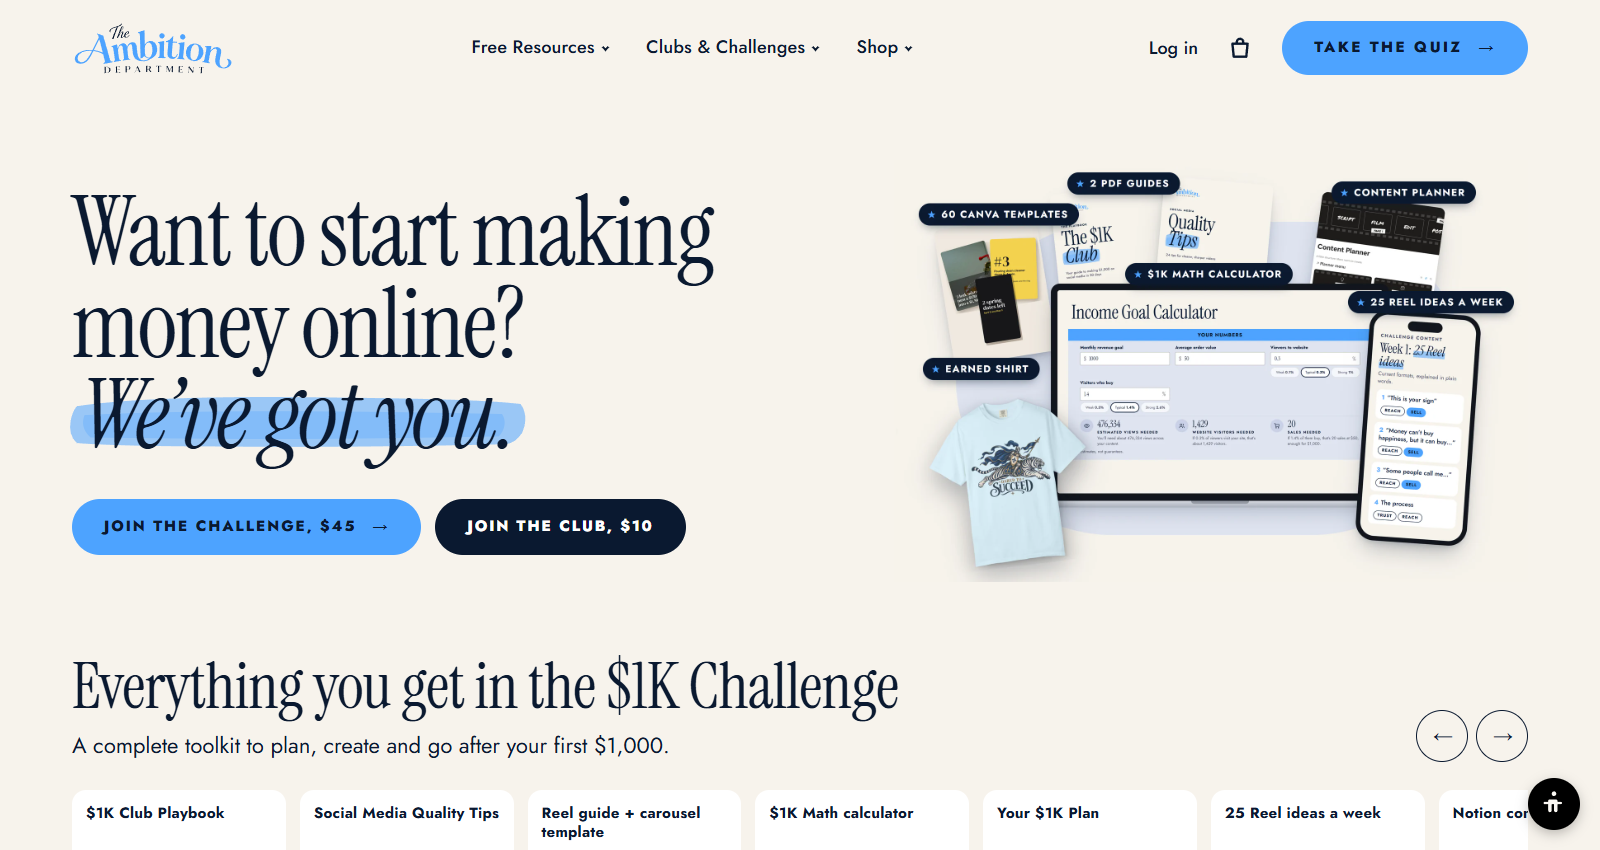
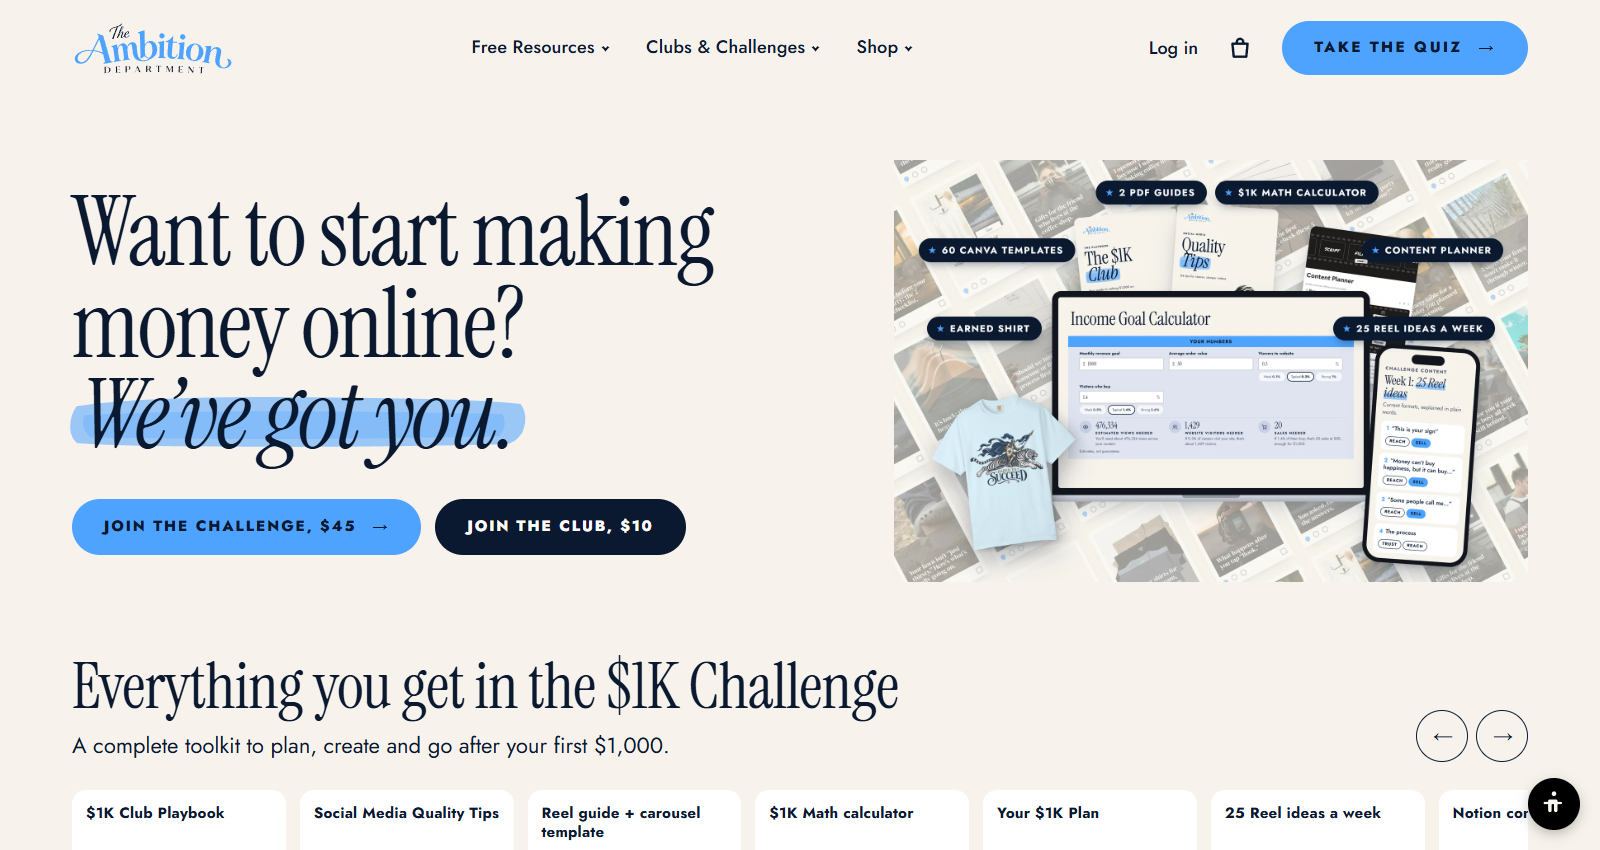
1K hero v3 round 2: tilted Instagram-post background from the 30 Challenge carousel templates, callouts in a mirrored arc off the product titles; not live

Changed region(s): [[0.5312, 0.1835, 0.9688, 0.7035]]

diff --git a/website/scrolly-site/mockups/k1-hero-v3/hero.html b/website/scrolly-site/mockups/k1-hero-v3/hero.html
@@ -1,56 +1,65 @@
 <!doctype html>
 <!-- $1K Club hero image, v3 (2026-10-31). Replaces k1-hero-fan.webp (2026-10-15, old orange look, graphite shirt).
-     Render: node render.mjs  ->  ../../assets/k1-hero-v3.webp (1536 x 1024). Screen crop: node capture.mjs -->
+     Background: a tilted wall of Instagram posts made from the Challenge's 30 carousel templates (bg/, copied from
+     automation/k1-launch/content/library/dist/carousels/*/previews/example-01.png), washed in off-white.
+     Callouts sit in a mirrored arc. Render: node render.mjs -> ../../assets/k1-hero-v3.webp. Screen crop: node capture.mjs -->
 <html><head><meta charset="utf-8">
 <link href="https://fonts.googleapis.com/css2?family=Instrument+Serif:ital@0;1&family=Jost:wght@400;500;700;800&display=swap" rel="stylesheet">
 <style>
-:root{--cream:#f7f3ec;--ink:#0a1930;--sky:#4da3ff;--mist:#dfe4f0;--muted:#4a4e66;--line:#d9d3ca}
+:root{--cream:#f7f3ec;--ink:#0a1930;--sky:#4da3ff;--mist:#dfe4f0;--muted:#4a4e66}
 *{box-sizing:border-box;margin:0;padding:0}
 body{width:1536px;height:1024px;background:var(--cream);font-family:Jost,Arial,sans-serif;color:var(--ink);overflow:hidden;position:relative}
 .abs{position:absolute}
 .shadow{box-shadow:0 30px 60px -20px rgba(10,25,48,.35),0 8px 18px -8px rgba(10,25,48,.25)}
-/* soft blue-mist ground behind the devices */
-.ground{left:150px;top:150px;width:1240px;height:760px;border-radius:380px;background:var(--mist)}
+/* background wall of posts */
+.wall{left:-560px;top:-820px;width:2700px;display:grid;grid-template-columns:repeat(12,196px);gap:28px;transform:rotate(-28deg);transform-origin:center}
+.post{background:#fff;padding:10px 10px 0;border-radius:4px;box-shadow:0 10px 24px -14px rgba(10,25,48,.4)}
+.post img{display:block;width:100%;aspect-ratio:3/4;object-fit:cover}
+.post .ic{display:flex;gap:10px;align-items:center;height:34px;padding:0 2px}
+.post .ic i{width:15px;height:15px;border:2px solid #9aa0ad;border-radius:50%}
+.post .ic i.h{border-color:var(--sky);background:var(--sky);border-radius:50% 50% 50% 0;transform:rotate(-45deg);width:12px;height:12px}
+.post .ic i.b{margin-left:auto;border-radius:2px}
+.wash{inset:0;background:rgba(247,243,236,.62)}
 .card{border-radius:14px;overflow:hidden;background:#fff}
 .card img{display:block;width:100%;height:auto}
 /* laptop: 16:10 screen on a thin base */
-.lap{left:380px;top:300px;width:820px}
-.lap .lid{background:#11151c;border-radius:22px 22px 0 0;padding:16px 16px 18px}
-.lap .scr{aspect-ratio:16/10;background:var(--cream);border-radius:6px;overflow:hidden;padding:26px 26px 0}
-.lap .scr h4{font:400 46px/1 'Instrument Serif',serif;letter-spacing:-.01em;margin:4px 0 18px 8px}
+.lap{left:383px;top:318px;width:770px}
+.lap .lid{background:#11151c;border-radius:22px 22px 0 0;padding:15px 15px 17px}
+.lap .scr{aspect-ratio:16/10;background:var(--cream);border-radius:6px;overflow:hidden;padding:24px 24px 0}
+.lap .scr h4{font:400 44px/1 'Instrument Serif',serif;letter-spacing:-.01em;margin:6px 0 20px 6px}
 .lap .scr img{width:100%;display:block}
-.lap .base{height:16px;margin:0 -46px;background:linear-gradient(#d6d9e0,#aab0bb);border-radius:0 0 18px 18px;position:relative}
+.lap .base{height:16px;margin:0 -44px;background:linear-gradient(#d6d9e0,#aab0bb);border-radius:0 0 18px 18px;position:relative}
 .lap .base:after{content:"";position:absolute;left:50%;top:0;width:140px;height:7px;margin-left:-70px;background:#9298a4;border-radius:0 0 8px 8px}
 /* phone: real proportions */
-.phone{left:1135px;top:370px;width:270px;height:560px;background:#11151c;border-radius:44px;padding:11px;transform:rotate(4deg)}
-.phone .in{width:100%;height:100%;background:var(--cream);border-radius:34px;overflow:hidden;padding:46px 18px 0;position:relative}
-.phone .in:before{content:"";position:absolute;top:12px;left:50%;width:84px;height:24px;margin-left:-42px;background:#11151c;border-radius:14px}
+.phone{left:1150px;top:452px;width:255px;height:530px;background:#11151c;border-radius:42px;padding:10px;transform:rotate(4deg)}
+.phone .in{width:100%;height:100%;background:var(--cream);border-radius:33px;overflow:hidden;padding:44px 16px 0;position:relative}
+.phone .in:before{content:"";position:absolute;top:12px;left:50%;width:80px;height:23px;margin-left:-40px;background:#11151c;border-radius:14px}
 .phone .lab{font:700 11px/1 Jost;letter-spacing:.14em;text-transform:uppercase;color:var(--muted)}
-.phone h5{font:400 32px/1 'Instrument Serif',serif;margin:8px 0 6px}
+.phone h5{font:400 30px/1 'Instrument Serif',serif;margin:8px 0 6px}
 .phone h5 em{background:linear-gradient(transparent 55%,rgba(77,163,255,.55) 55%,rgba(77,163,255,.55) 92%,transparent 92%)}
 .phone p.l{font:400 13px/1.35 Jost;color:var(--muted);margin-bottom:12px}
 .idea{background:#fff;border-radius:12px;padding:10px 12px;margin-bottom:8px}
-.idea b{display:block;font:500 15px/1.25 Jost;margin-bottom:7px}
+.idea b{display:block;font:500 14px/1.25 Jost;margin-bottom:7px}
 .idea b i{font-style:normal;color:var(--sky);font-weight:700;margin-right:6px}
 .tag{display:inline-block;font:700 10px/1 Jost;letter-spacing:.1em;padding:5px 9px;border-radius:20px;border:1.5px solid var(--ink);margin-right:4px}
 .tag.s{background:var(--sky);border-color:var(--sky)}
-/* callouts: navy pill, sky star */
-.pill{background:var(--ink);color:#fff;border-radius:40px;padding:15px 26px 15px 22px;font:700 24px/1 Jost;letter-spacing:.09em;text-transform:uppercase;white-space:nowrap;display:flex;align-items:center;gap:12px;box-shadow:0 12px 24px -10px rgba(10,25,48,.5)}
-.pill:before{content:"★";color:var(--sky);font-size:22px}
+/* callouts: navy pill, sky star, one size, mirrored arc */
+.pill{background:var(--ink);color:#fff;border-radius:40px;height:58px;padding:0 28px 0 24px;font:700 23px/1 Jost;letter-spacing:.09em;text-transform:uppercase;white-space:nowrap;display:flex;align-items:center;gap:12px;box-shadow:0 12px 24px -10px rgba(10,25,48,.5)}
+.pill:before{content:"★";color:var(--sky);font-size:21px}
 </style></head><body>
-<div class="abs ground"></div>
+<div class="abs wall" id="wall"></div>
+<div class="abs wash"></div>
 
-<!-- back row: guides, templates, planner -->
-<div class="abs card shadow" style="left:120px;top:150px;width:250px;transform:rotate(-9deg)"><img src="../../assets/k1-tile-canva-templates.webp"></div>
-<div class="abs card shadow" style="left:395px;top:70px;width:270px;transform:rotate(-6deg)"><img src="../../assets/k1-cover-playbook-v3.webp"></div>
-<div class="abs card shadow" style="left:640px;top:50px;width:265px;transform:rotate(5deg)"><img src="../../assets/k1-cover-quality-tips-v3.webp"></div>
-<div class="abs card shadow" style="left:1010px;top:95px;width:300px;transform:rotate(8deg)"><img src="../../assets/k1-tile3-notion-onset.webp"></div>
+<!-- back row: the two guides, the content planner -->
+<div class="abs card shadow" style="left:452px;top:128px;width:250px;transform:rotate(-6deg)"><img src="../../assets/k1-cover-playbook-v3.webp"></div>
+<div class="abs card shadow" style="left:676px;top:112px;width:245px;transform:rotate(4deg)"><img src="../../assets/k1-cover-quality-tips-v3.webp"></div>
+<div class="abs card shadow" style="left:985px;top:176px;width:270px;transform:rotate(8deg)"><img src="../../assets/k1-tile3-notion-onset.webp"></div>
 
 <!-- laptop with the live $1K Math calculator -->
 <div class="abs lap"><div class="lid shadow"><div class="scr"><h4>Income Goal Calculator</h4><img src="calc-panel.png"></div></div><div class="base shadow"></div></div>
 
 <!-- earned shirt -->
-<img class="abs" src="../../assets/shirt-1k-dared-front-cut.webp" style="left:20px;top:520px;width:520px;transform:rotate(-7deg);filter:drop-shadow(0 26px 30px rgba(10,25,48,.3))">
+<img class="abs" src="../../assets/shirt-1k-dared-front-cut.webp" style="left:30px;top:515px;width:480px;transform:rotate(-7deg);filter:drop-shadow(0 26px 30px rgba(10,25,48,.3))">
 
 <!-- phone: weekly Reel ideas -->
 <div class="abs phone shadow"><div class="in">
@@ -63,11 +72,20 @@ body{width:1536px;height:1024px;background:var(--cream);font-family:Jost,Arial,s
   <div class="idea"><b><i>4</i>The process</b><span class="tag">TRUST</span><span class="tag">REACH</span></div>
 </div></div>
 
-<!-- callouts -->
-<div class="abs pill" style="left:420px;top:30px">2 PDF guides</div>
-<div class="abs pill" style="left:60px;top:105px">60 Canva templates</div>
-<div class="abs pill" style="left:1060px;top:52px">Content planner</div>
-<div class="abs pill" style="left:560px;top:250px">$1K Math calculator</div>
-<div class="abs pill" style="left:1100px;top:318px">25 Reel ideas a week</div>
-<div class="abs pill" style="left:70px;top:480px">Earned shirt</div>
+<!-- callouts: top pair meets at the centre line, side pairs mirror from the edges -->
+<div class="abs pill" style="right:calc(50% + 10px);top:50px">2 PDF guides</div>
+<div class="abs pill" style="left:calc(50% + 10px);top:50px">$1K Math calculator</div>
+<div class="abs pill" style="left:60px;top:190px">60 Canva templates</div>
+<div class="abs pill" style="right:60px;top:190px">Content planner</div>
+<div class="abs pill" style="left:80px;top:380px">Earned shirt</div>
+<div class="abs pill" style="right:80px;top:380px">25 Reel ideas a week</div>
+
+<script>
+// 12 x 9 wall from the 30 template covers; each row shifts by 7 so repeats land far apart
+const w = document.getElementById('wall');
+for (let i = 0; i < 108; i++) {
+  const n = String(((i % 12) + Math.floor(i / 12) * 7) % 30 + 1).padStart(2, '0');
+  w.insertAdjacentHTML('beforeend', `<div class="post"><img src="bg/c${n}.webp"><div class="ic"><i class="h"></i><i></i><i></i><i class="b"></i></div></div>`);
+}
+</script>
 </body></html>
